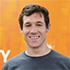
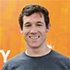
Further optimizes some images

diff --git a/README.md b/README.md
@@ -12,7 +12,8 @@ Challenge accepted, performance optimized!
 ### Optimizations to `index.html` to achive a PageSpeed score < 90 (<X>)
 - `media=print` attribute added to `print.css` head link.
 - Put portrait mobile styles from `style.css` into a new file `mobile.css` and linked with `media` attribute of `(max-width: 480px)`.
-- Resized and reduced quality (85%) on `pizzeria.jpg` to give `pizzeria-thumb.jpg`.
+- Resized, reduced quality (85%), changed chroma to 4:2:0 and trashed EXIF data on `pizzeria.jpg` to give `pizzeria-thumb.jpg`.
+- Reduced quality (85%), changed chroma to 4:2:0 and trashed EXIF data on `profilepic.jpg`.
 - Reduced number of critical resource requests by using a resized local image of `mobilewebdev.jpg` -> `mobilewebdev-thumb.jpg` instead of `src`'ing one of these monsters: https://lh6.ggpht.com/f_0W8h__3G99CWTjnMjD8BUKm7yp2-wJyApLtTwFoFtlal2ULf_JgHIsOQq2NiYfKOdMlXlMHDKNo5XVZLs=s100
 - Removed Google Fonts request
 - Inlined base styles from `css/style.css` into `index.html`.
